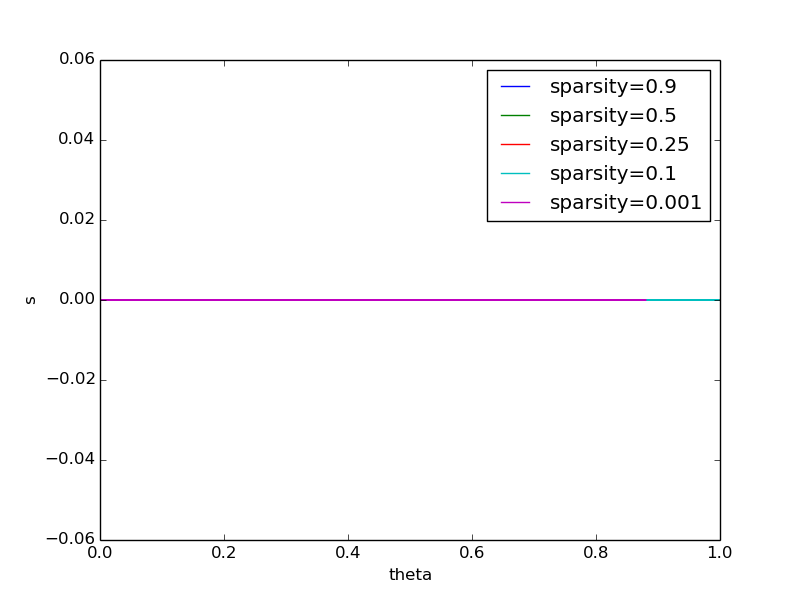
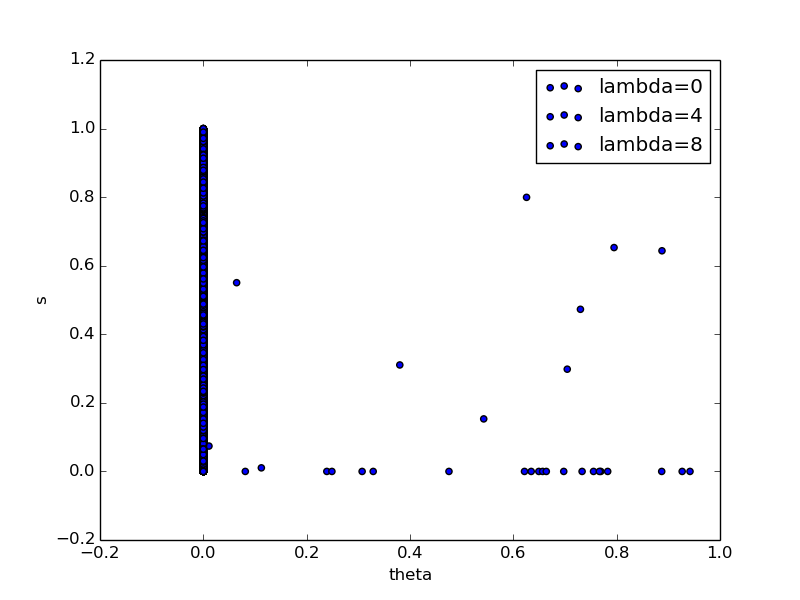
complete part c

diff --git a/week5/penalized.py b/week5/penalized.py
@@ -14,45 +14,77 @@ def calc_mse(s, theta):
     mse=mse/len(theta)
     return mse
 
-#calculate prediction vector        
+#calculate prediction vector, s(y)
 def calc_s(y, lamb):
     s = abs(y)-lamb
     s[s<0]=0
     s = np.sign(y)*s
     return s
 
+#Plot of likliehood function as a function of theta
+plt.figure(3)
+#Plot of min likliehood, s(y) as a function of y
+plt.figure(4)
+for lam in [0, 2, 4, 6, 8]:
+    y_vec = np.linspace(-10,10,100)
+    s_vec = calc_s(y_vec, lam)
+    plt.figure(3)
+    for y in [4, 8]:
+        if lam%8==0:
+            likliehood=0.5*(y-y_vec)*(y-y_vec)+lam*abs(y_vec)
+            plt.plot(y_vec, likliehood, label='lambda='+str(lam)+', y='+str(y))
+    plt.figure(4)
+    plt.plot(y_vec, s_vec, label='lambda='+str(lam))
+
+plt.figure(3)
+plt.ylabel('S(y)')
+plt.xlabel('theta')
+plt.legend(loc='upper right')
+plt.savefig('theta_s.png', format='png')
+
+plt.figure(4)
+plt.ylabel('S(y)')
+plt.xlabel('y')
+plt.legend(loc='lower right')
+plt.savefig('theta_y.png', format='png')
+
 #Define vector length, and sigma vector
 n=10000
 sigma = np.random.random(n)
 y = np.random.random(n)
 plt.figure(1)
-plt.figure(2)
-
+#Calculate MSE as a function of lambda for various levels of sparsity
 for z in [0.9, 0.5, 0.25, 0.1, 0.001]:
-    theta = np.random.choice([0, 1], size=(n), p=[1-z, z])
+    theta = scipy.sparse.random(n, 1, density=z)#np.random.choice([0, 1], size=(n), p=[1-z, z])
+    theta=theta.A
     norm = np.exp(-np.square(y-theta)/(2*np.square(sigma)))
     mse=[]
-    vec_lambda=np.linspace(0,1.2,100)
+    vec_lambda=np.linspace(0,1.5,100)
     for lamb in vec_lambda:
         s = calc_s(y, lamb)
         mse.append(calc_mse(s, theta))
 
-    plt.figure(1)
     plt.plot(vec_lambda, mse, label='sparsity='+str(z))
-    plt.figure(2)
-    th = theta
-    #th[th==0]=np.nan
-    #s[th==0]=np.nan
-    th=th*sigma
-    plt.plot(th, s, label='sparsity='+str(z))
 
-plt.figure(1)
 plt.ylabel('MSE')
 plt.xlabel('lambda')
 plt.legend(loc='upper right')
 plt.savefig('result_pen.png', format='png')
 
+#Plot S(y) as a function of input theta
 plt.figure(2)
+for lam in [0, 4, 8]:
+    #Define theta vector, calculate s(y)
+    th = scipy.sparse.random(n, 1, density=0.001)#np.random.choice([0, 1], size=(n), p=[1-0.001, 0.001])
+    th = th.A
+    s = calc_s(y, lam)
+
+    # Calculate the point density
+    #xy = np.vstack([th,s])
+    z = scipy.stats.gaussian_kde(th+s)(th+s)
+
+    plt.scatter(th, s, label='lambda='+str(lam), c=z, s=100, edgecolor='')
+
 plt.xlabel('theta')
 plt.ylabel('s')
 plt.legend(loc='upper right')

diff --git a/week5/lasso.py b/week5/lasso.py
@@ -22,6 +22,16 @@ def calc_s(y, lamb):
     s = np.sign(y)*s
     return s
 
+#Calculate the cp statistic
+def calc_cp(y_pred, y, X):
+    mse = calc_mse(y_pred, y, X) 
+    sl = len([x for x in y_pred if x > 0])
+    sigma = mse
+    if len(y)!=sl:
+        sigma = mse/(len(y)-sl)
+    cp = mse + 2*sl*sigma/len(y)
+    return cp
+
 #Read in data
 X = pd.read_csv('diabetesX.csv')
 col_names=X.columns.values.tolist()
@@ -38,6 +48,7 @@ X_test, y_test = X[n_samples // 2:], y[n_samples // 2:]
 plt.figure(1)
 mse_test=[]
 mse_train=[]
+mse_cp=[]
 vec_lambda=np.linspace(0,9,100)
 vec_coef=[]
 for alpha in vec_lambda:
@@ -45,6 +56,7 @@ for alpha in vec_lambda:
     y_pred = lasso.fit(X_train, y_train).predict(X_test)
     mse_test.append(calc_mse(y_test,y_pred,X_test))
     mse_train.append(calc_mse(y_train,y_pred,X_train))
+    mse_cp.append(calc_cp(y_train,y_pred,X_train))
     vec_coef.append(lasso.coef_)
     if alpha%2==0 and alpha!=0:
         plt.plot(lasso.coef_, label="Lambda: "+str(alpha))
@@ -56,6 +68,7 @@ plt.savefig('result_lasso_coef.png', format='png')
 plt.figure(2)
 plt.plot(vec_lambda, mse_train, label='Training Data')
 plt.plot(vec_lambda, mse_test, label='Test Data')
+plt.plot(vec_lambda, mse_cp, label='Cp')
 plt.ylabel('MSE')
 plt.xlabel('lambda')
 plt.legend(loc='upper right')
